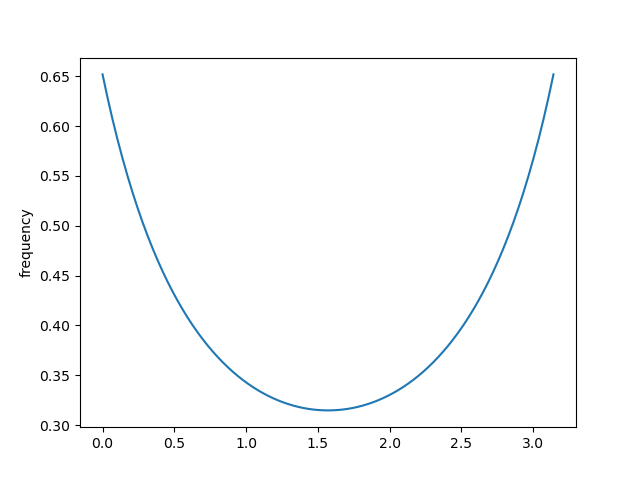
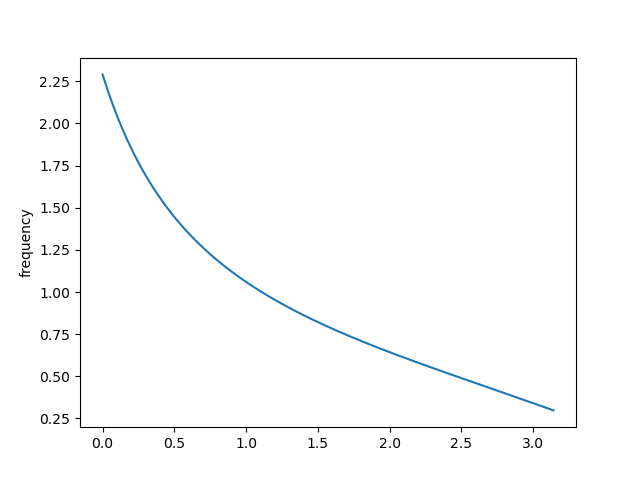
add

diff --git a/main.py b/main.py
@@ -4,6 +4,8 @@ import matplotlib.pyplot as plt
 from scipy import signal
 from flask import Flask, render_template, request
 angel = np.arange(0, 181, 1)
+z=[]
+p=[]
 app = Flask(__name__, template_folder='html', static_folder='static')
 app.config['SEND_FILE_MAX_AGE_DEFAULT'] = 0
 
@@ -42,7 +44,7 @@ def all_passfilter(zeros: list, poles: list, z: list, p: list):
     try:
         for i in z:
             mag = 1/(((i[0])**2+(i[1])**2) ** 0.5)
-            phase = -1 * math.tan(i[0]/i[1])
+            phase = -1 * math.tan(i[1]/i[0])
             poles.append([mag*math.cos(phase), mag*math.sin(phase)])
             filtered_transfer_function /= np.exp(1j *
                                                  angel*np.pi/180) - (mag * np.exp(1j*phase))
@@ -50,7 +52,7 @@ def all_passfilter(zeros: list, poles: list, z: list, p: list):
         try:
             for i in p:
                 mag = 1/(((i[0])**2+(i[1])**2) ** 0.5)
-                phase = -1 * math.tan(i[0]/i[1])
+                phase = -1 * math.tan(i[1]/i[0])
                 zeros.append([mag*math.cos(phase), mag*math.sin(phase)])
                 filtered_transfer_function *= np.exp(
                     1j*angel*np.pi/180) - (mag * np.exp(1j*phase))
@@ -67,9 +69,9 @@ def all_passfilter(zeros: list, poles: list, z: list, p: list):
 def get_transfer_function(zeros, poles):
     transfer_function = 1
     for i in zeros:
-        transfer_function *= np.exp(-1j*angel*np.pi/180)-np.complex(i[1], i[0])
+        transfer_function *= np.exp(-1j*angel*np.pi/180)-np.complex(i[0], i[1])
     for i in poles:
-        transfer_function /= np.exp(-1j*angel*np.pi/180)-np.complex(i[1], i[0])
+        transfer_function /= np.exp(-1j*angel*np.pi/180)-np.complex(i[0], i[1])
     return transfer_function
 
 
@@ -89,11 +91,17 @@ def index():
 def running():
     zeros = request.get_json().get("zeros")
     poles = request.get_json().get("poles")
-    z = request.get_json().get("zeros_out_of_range")
-    p = request.get_json().get("poles_out_of_range")
+    # z = request.get_json().get("zeros_out_of_range")
+    # p = request.get_json().get("poles_out_of_range")
+    for i in zeros:
+        if (((i[0])**2+(i[1])**2) ** 0.5>1):
+            z.append(i)
+    for i in poles:
+        if (((i[0])**2+(i[1])**2) ** 0.5>1):
+            p.append(i)
     print(f"received request with parameters: zeros={zeros}, poles={poles}")
     zeros, poles = begin(zeros, poles, z, p)
-    return render_template("index.html", zeros=zeros, poles=poles)
+    return render_template("index.html", zeros=zeros, poles=poles,p=p,z=z)
 
 
 if __name__ == '__main__':
